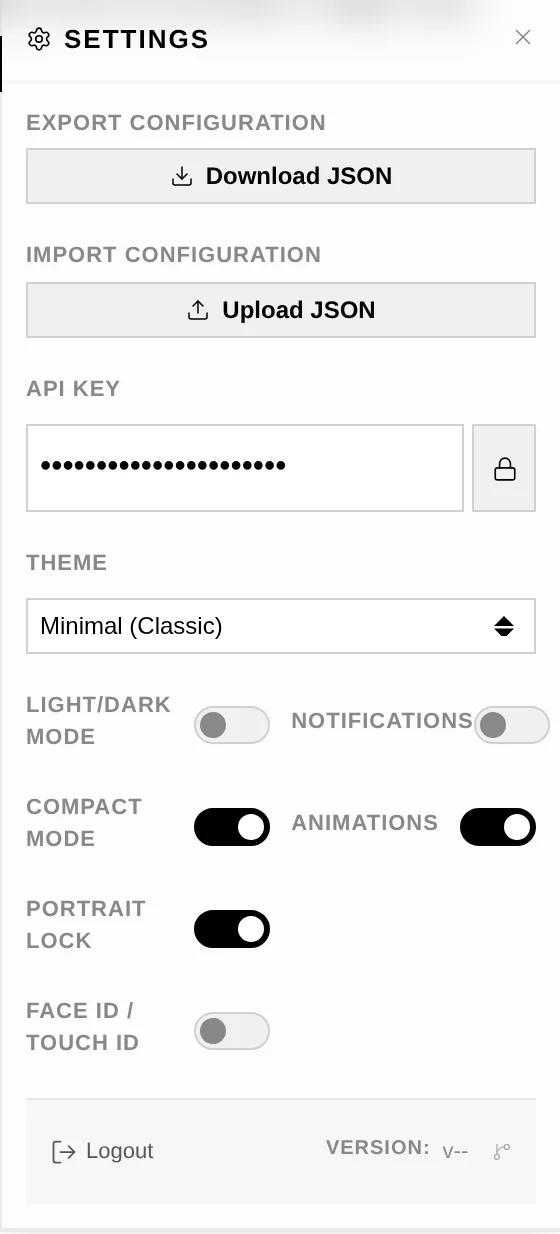
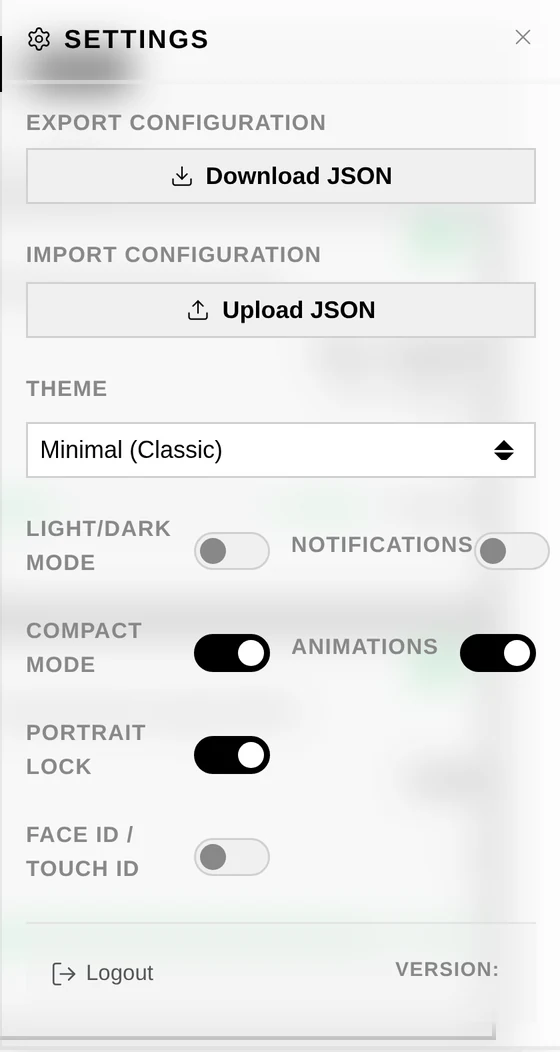
docs: list every external service called at runtime and retake the screenshot
THIRD_PARTY_NOTICES named Radio Browser alone, while cover art resolution
also calls MusicBrainz, the Cover Art Archive and the iTunes Search API —
one service out of four in a file whose stated scope includes services
"called at runtime, no code bundled". Terms were read at the source
rather than recalled:

- MusicBrainz — core data CC0, so no attribution is owed; supplementary
  data is CC BY-NC-SA 3.0. AG queries /ws/2/release, which is core data.
  A User-Agent identifying the application with a contact is required and
  AG_USER_AGENT already follows the recommended form.
- Cover Art Archive — Internet Archive + MusicBrainz; no licence is
  asserted over the images, which are archival and offered as-is, with
  copyright staying with the owners.
- iTunes Search API — no key, ~20 calls/minute, and Apple asks that the
  promotional material it returns (artwork included) be shown in
  connection with the corresponding store content.

Two facts recorded without being acted on: MusicBrainz measures each IP
against 1 req/s on average and AG caps concurrency (3 slots) and caches
for 24h rather than rate-limiting; and Apple's clause sits awkwardly with
showing artwork for a track played from another source. Both are calls
for the maintainer, not for a notices file.

The manual's Settings screenshot is retaken from the current UI, so it no
longer shows the API key field removed in b9c0656. Captured through
Playwright on an emulated iPhone; the version value is blanked because
[…]

diff --git a/THIRD_PARTY_NOTICES.md b/THIRD_PARTY_NOTICES.md
@@ -464,6 +464,51 @@ that uses it, Audiogravi<sup>ty</sup> reports the stations it plays so the catal
 popularity ranking stays meaningful; the station identifier is all that is sent, and
 `RADIO_REPORT_PLAYS=false` switches it off.
 
+### MusicBrainz
+**License** CC0 1.0 for the core data — supplementary data is CC BY-NC-SA 3.0  
+**Source** https://musicbrainz.org  
+**Used by** Cover art — a release is looked up to obtain its MusicBrainz identifier,
+which the Cover Art Archive is then queried with  
+
+Audiogravi<sup>ty</sup> queries the release database (`/ws/2/release`), which is core
+data placed in the public domain under CC0; attribution is therefore not required and is
+given here as a courtesy. MusicBrainz asks every client to send a User-Agent identifying
+the application and offering a way to reach its maintainers, and measures each IP address
+against an average of one request per second. Audiogravi<sup>ty</sup> identifies itself as
+`Audiogravity/<version> (https://github.com/audiogravity)`, which follows the recommended
+form, caps itself at three concurrent external cover lookups and caches every answer for
+24 hours — including the answers that found nothing, so a missing cover is not asked for
+twice.
+
+---
+
+### Cover Art Archive
+**License** No licence is asserted over the images themselves; the archive is governed by
+the Internet Archive's terms — https://archive.org/about/terms.php  
+**Source** https://coverartarchive.org  
+**Used by** Cover art — the front cover of the release identified through MusicBrainz  
+
+The archive is a cooperation between the Internet Archive and MusicBrainz. Its images are
+collected for archival purposes and offered as-is, at the user's own risk; copyright in
+each cover remains with its owner. Audiogravi<sup>ty</sup> fetches a front cover to display
+beside the track being played and redistributes nothing.
+
+---
+
+### iTunes Search API
+**License** Apple's terms of use for the Search API — no licence is granted over the
+content returned  
+**Source** https://performance-partners.apple.com/search-api  
+**Used by** Cover art — last-resort lookup when neither the local file nor the
+MusicBrainz / Cover Art Archive path yields a cover  
+
+No API key is required. Apple states the Search API is limited to approximately twenty
+calls per minute and asks that promotional material obtained through it — album artwork
+included — be presented in connection with the corresponding store content. Audiogravi<sup>ty</sup>
+requests artwork only, never audio previews, and caches it for 24 hours. Apple, iTunes and
+the iTunes logo are trademarks of Apple Inc.; Audiogravi<sup>ty</sup> is not affiliated
+with, endorsed by or sponsored by Apple.
+
 ---
 
 ## Audio software — installable via the Audio Software Manager

diff --git a/CHANGELOG.md b/CHANGELOG.md
@@ -35,7 +35,8 @@ and this landing) are documented here. Format based on
 ### Documentation
 - **[site] The manual explains where radio stations come from, and what is sent back.** A new section says that search depends on an outside catalogue Audiogravi<sup>ty</sup> does not run, that your own stations keep playing when it is down, what a play report contains — the station's identifier, nothing else — and how to switch it off.
 - **[site] The Radio Browser notice describes what Audiogravi<sup>ty</sup> actually does.** It claimed the box auto-discovers the nearest mirror through an HTTP endpoint; discovery is now by DNS, there is no nearest mirror to pick from, and the play reporting was undocumented.
-- **[site] The manual no longer documents the API key field removed above.**
+- **[site] The manual no longer documents the API key field removed above.** Its screenshot of the Settings panel is retaken as well, so the picture matches what the panel now shows.
+- **[site] The third-party notices now list every outside service the box calls.** Only Radio Browser was named, while cover art also queries **MusicBrainz** (release data, CC0), the **Cover Art Archive** (a cooperation between the Internet Archive and MusicBrainz, which asserts no licence over the images themselves) and the **iTunes Search API** as a last resort. Each entry states what it is used for, what its provider requires of a client, and what Audiogravi<sup>ty</sup> sends.
 - **[site] The manual now says what uninstalling actually leaves behind.** It gave two commands and nothing else, so following it to the letter left you believing the machine was clean while your whole configuration was still there. It now states what each form removes, documents `--purge`, and names what is deliberately kept: the audio software installed from the Audio Software page — MPD, Shairport-Sync, upmpdcli, HQPlayer NAA, Roon Bridge — which are ordinary system packages that keep working on their own.
 
 ## [0.9.25] - 2026-07-28
